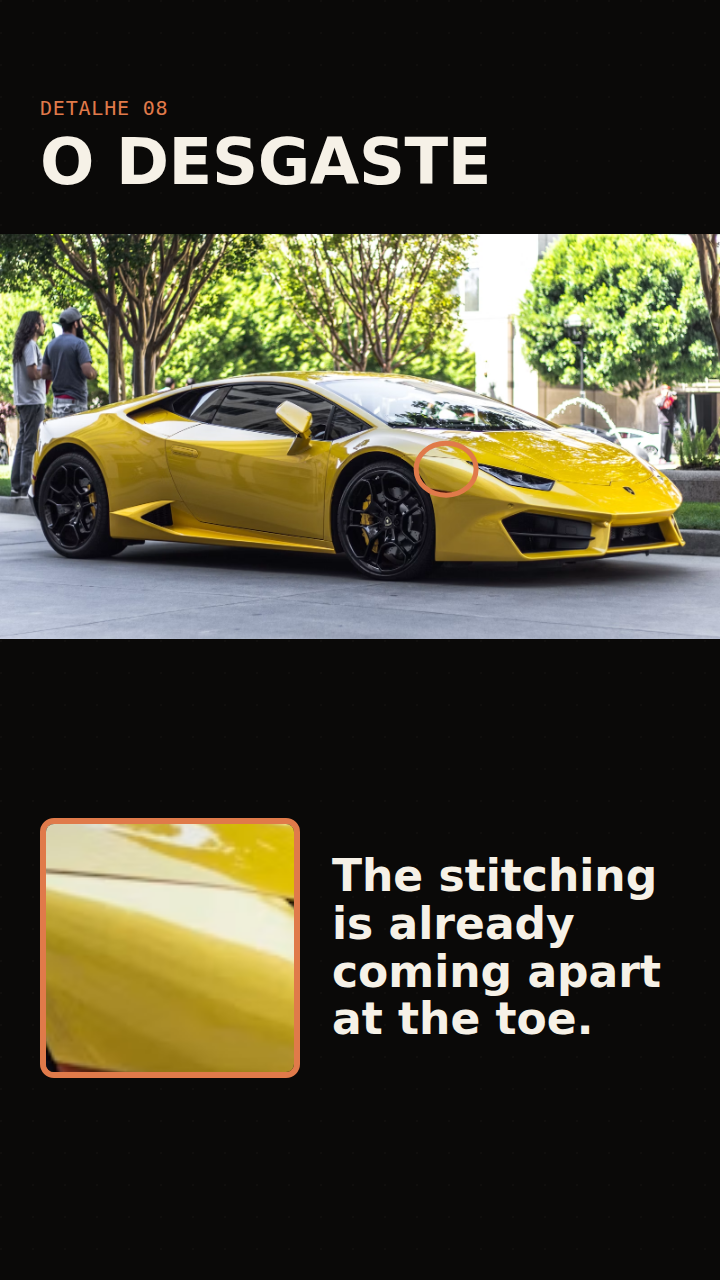
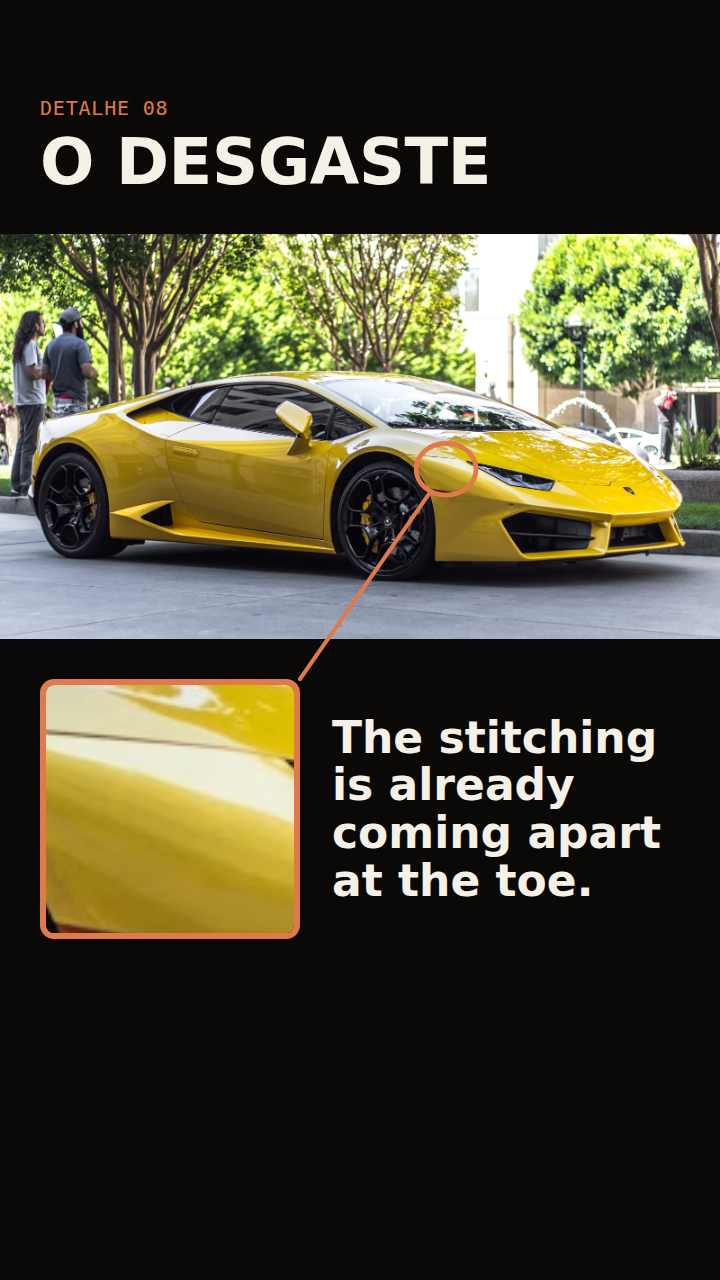
feat(detail-zoom): draw the ring, the link line and the card as animatable parts (#106)
* feat(detail-zoom): draw the ring, the link line and the card as animatable parts

The slide was one still: ring, card and caption all there at t=0, and no line
between the ring and the card it explains. Authors baked the whole thing into
a JPEG instead, which left nothing in the Studio to select or style.

The ring, a new link line, the card, the caption and the title are now
steps-reveal targets (indexes 0-4). The ring is drawn around, the line runs
from the ring to the card's corner (masked inside the ring), the card grows out
of that corner and the caption slides in. Every fallback is the final state, so
a slide without animation only gains the line.

* feat(detail-zoom): mark the title as a slide-long beat

* fix(detail-zoom): draw the line only with a focus point, mask it only with a ring size

Review: an empty focusX/focusY left an invalid SVG length that reads as 0, so the
line ran from the photo's corner; an empty focusW/focusH read as 100% and the
CSS fallback for the hole never applied (Blink takes the attribute). The mask id
now carries all four values, and the lone caption centres again.

diff --git a/templates/detail-zoom/portrait.css b/templates/detail-zoom/portrait.css
@@ -111,12 +111,81 @@
   box-sizing: border-box;
 }
 
+/* Scene, link line and foot share one box so the line can be placed from the
+ * scene's own corner, whatever height the head above them takes. */
+.tpl-root.tpl-detail-zoom.tpl-detail-zoom--portrait .tpl-detail-zoom__body {
+  display: flex;
+  flex-direction: column;
+  gap: 40px;
+  flex: 1 1 auto;
+  min-height: 0;
+}
+
+/* `flex: none` and not `1 1 auto`: the link line ends on the card's top-right
+ * corner, a fixed point under the scene. A foot that stretched would centre the
+ * card in whatever room was left and pull that corner away from the line. */
 .tpl-root.tpl-detail-zoom.tpl-detail-zoom--portrait .tpl-detail-zoom__foot {
   display: flex;
   align-items: center;
   gap: 32px;
-  flex: 1 1 auto;
+  flex: none;
   min-height: 0;
+}
+
+/* No card, no line to land on: the lone caption takes the room back and centres in it. */
+.tpl-root.tpl-detail-zoom.tpl-detail-zoom--portrait .tpl-detail-zoom__foot:has(> .tpl-detail-zoom__caption:only-child) {
+  flex: 1 1 auto;
+}
+
+/* The line from the ring to the card. The SVG is the scene box exactly, so the
+ * focus percentages mean here what they mean on the ring; it overflows on
+ * purpose to reach the card underneath. The mask cuts the stretch inside the
+ * ring, so the line starts ON the ring and not at its centre. The HTML draws
+ * the line only with a focus point, and masks it only with a ring size: an empty
+ * slot leaves an invalid SVG length behind, which reads as 0 (a line from the
+ * photo's corner) or as 100% (a hole the size of the photo). The mask id carries
+ * all four values, so two slides sharing a document share a mask only when it
+ * is the same mask. */
+.tpl-root.tpl-detail-zoom.tpl-detail-zoom--portrait .tpl-detail-zoom__link {
+  position: absolute;
+  left: -40px;
+  top: 0;
+  width: 720px;
+  height: 405px;
+  overflow: visible;
+  pointer-events: none;
+  z-index: 2;
+}
+
+.tpl-root.tpl-detail-zoom.tpl-detail-zoom--portrait .tpl-detail-zoom__linkline {
+  stroke: var(--s-brand-solid, #e07a4a);
+  stroke-width: 4;
+  stroke-linecap: round;
+  stroke-dasharray: 1;
+  stroke-dashoffset: calc(1 - var(--anim-progress, 1));
+}
+
+/* Animation (steps-reveal, indexes 0 ring · 1 line · 2 card · 3 caption ·
+ * 4 title, whose `data-anim-span="slide"` asks the Studio for one beat as long
+ * as the slide instead of a quick reveal). The Studio runtime writes --anim-progress / --anim-opacity for a
+ * given t; every fallback is the final state, so a slide without animation is
+ * unchanged. The ring mask reads only the ALPHA of its colour. The ring is DRAWN around, clockwise from the top; the card grows
+ * out of the corner the line lands on. The title never hides — it only exposes
+ * its progress, which the Studio's gradient text effect sweeps along. */
+.tpl-root.tpl-detail-zoom.tpl-detail-zoom--portrait .tpl-detail-zoom__ring {
+  -webkit-mask-image: conic-gradient(var(--s-brand-solid, #e07a4a) calc(var(--anim-progress, 1) * 360deg), transparent 0);
+  mask-image: conic-gradient(var(--s-brand-solid, #e07a4a) calc(var(--anim-progress, 1) * 360deg), transparent 0);
+}
+
+.tpl-root.tpl-detail-zoom.tpl-detail-zoom--portrait .tpl-detail-zoom__lens {
+  opacity: var(--anim-opacity, 1);
+  transform: scale(calc(0.35 + 0.65 * var(--anim-progress, 1)));
+  transform-origin: 100% 0;
+}
+
+.tpl-root.tpl-detail-zoom.tpl-detail-zoom--portrait .tpl-detail-zoom__caption {
+  opacity: var(--anim-opacity, 1);
+  transform: translateX(calc((1 - var(--anim-progress, 1)) * 24px));
 }
 
 .tpl-root.tpl-detail-zoom.tpl-detail-zoom--portrait .tpl-detail-zoom__lens {

diff --git a/templates/detail-zoom/landscape.css b/templates/detail-zoom/landscape.css
@@ -111,12 +111,81 @@
   box-sizing: border-box;
 }
 
+/* Scene, link line and foot share one box so the line can be placed from the
+ * scene's own corner, whatever height the head above them takes. */
+.tpl-root.tpl-detail-zoom .tpl-detail-zoom__body {
+  display: flex;
+  flex-direction: column;
+  gap: 24px;
+  flex: 1 1 auto;
+  min-height: 0;
+}
+
+/* `flex: none` and not `1 1 auto`: the link line ends on the card's top-right
+ * corner, a fixed point under the scene. A foot that stretched would centre the
+ * card in whatever room was left and pull that corner away from the line. */
 .tpl-root.tpl-detail-zoom .tpl-detail-zoom__foot {
   display: flex;
   align-items: center;
   gap: 40px;
-  flex: 1 1 auto;
+  flex: none;
   min-height: 0;
+}
+
+/* No card, no line to land on: the lone caption takes the room back and centres in it. */
+.tpl-root.tpl-detail-zoom .tpl-detail-zoom__foot:has(> .tpl-detail-zoom__caption:only-child) {
+  flex: 1 1 auto;
+}
+
+/* The line from the ring to the card. The SVG is the scene box exactly, so the
+ * focus percentages mean here what they mean on the ring; it overflows on
+ * purpose to reach the card underneath. The mask cuts the stretch inside the
+ * ring, so the line starts ON the ring and not at its centre. The HTML draws
+ * the line only with a focus point, and masks it only with a ring size: an empty
+ * slot leaves an invalid SVG length behind, which reads as 0 (a line from the
+ * photo's corner) or as 100% (a hole the size of the photo). The mask id carries
+ * all four values, so two slides sharing a document share a mask only when it
+ * is the same mask. */
+.tpl-root.tpl-detail-zoom .tpl-detail-zoom__link {
+  position: absolute;
+  left: -64px;
+  top: 0;
+  width: 1280px;
+  height: 300px;
+  overflow: visible;
+  pointer-events: none;
+  z-index: 2;
+}
+
+.tpl-root.tpl-detail-zoom .tpl-detail-zoom__linkline {
+  stroke: var(--s-brand-solid, #e07a4a);
+  stroke-width: 3;
+  stroke-linecap: round;
+  stroke-dasharray: 1;
+  stroke-dashoffset: calc(1 - var(--anim-progress, 1));
+}
+
+/* Animation (steps-reveal, indexes 0 ring · 1 line · 2 card · 3 caption ·
+ * 4 title, whose `data-anim-span="slide"` asks the Studio for one beat as long
+ * as the slide instead of a quick reveal). The Studio runtime writes --anim-progress / --anim-opacity for a
+ * given t; every fallback is the final state, so a slide without animation is
+ * unchanged. The ring mask reads only the ALPHA of its colour. The ring is DRAWN around, clockwise from the top; the card grows
+ * out of the corner the line lands on. The title never hides — it only exposes
+ * its progress, which the Studio's gradient text effect sweeps along. */
+.tpl-root.tpl-detail-zoom .tpl-detail-zoom__ring {
+  -webkit-mask-image: conic-gradient(var(--s-brand-solid, #e07a4a) calc(var(--anim-progress, 1) * 360deg), transparent 0);
+  mask-image: conic-gradient(var(--s-brand-solid, #e07a4a) calc(var(--anim-progress, 1) * 360deg), transparent 0);
+}
+
+.tpl-root.tpl-detail-zoom .tpl-detail-zoom__lens {
+  opacity: var(--anim-opacity, 1);
+  transform: scale(calc(0.35 + 0.65 * var(--anim-progress, 1)));
+  transform-origin: 100% 0;
+}
+
+.tpl-root.tpl-detail-zoom .tpl-detail-zoom__caption {
+  opacity: var(--anim-opacity, 1);
+  transform: translateX(calc((1 - var(--anim-progress, 1)) * 24px));
 }
 
 .tpl-root.tpl-detail-zoom .tpl-detail-zoom__lens {

diff --git a/templates/detail-zoom/portrait.html b/templates/detail-zoom/portrait.html
@@ -1,20 +1,31 @@
 <div class="tpl-root tpl-detail-zoom tpl-detail-zoom--portrait">
   <header class="tpl-detail-zoom__head">
     {{#eyebrow}}<span class="tpl-detail-zoom__eyebrow">{{eyebrow}}</span>{{/eyebrow}}
-    {{#title}}<h2 class="tpl-detail-zoom__title">{{title}}</h2>{{/title}}
+    {{#title}}<h2 class="tpl-detail-zoom__title" data-anim-target="step" data-anim-index="4" data-anim-span="slide">{{title}}</h2>{{/title}}
   </header>
+  <div class="tpl-detail-zoom__body">
   <div class="tpl-detail-zoom__scene">
     <img src="{{imageUrl}}" alt="{{imageAlt}}" class="tpl-detail-zoom__photo" crossorigin="anonymous" />
-    {{#zoom}}<span class="tpl-detail-zoom__ring" style="left: {{focusX}}%; top: {{focusY}}%; width: {{focusW}}%; height: {{focusH}}%"></span>{{/zoom}}
+    {{#zoom}}<span class="tpl-detail-zoom__ring" data-anim-target="step" data-anim-index="0" style="left: {{focusX}}%; top: {{focusY}}%; width: {{focusW}}%; height: {{focusH}}%"></span>{{/zoom}}
   </div>
+  {{#zoom}}{{#focusX}}{{#focusY}}
+  <svg class="tpl-detail-zoom__link" data-anim-target="step" data-anim-index="1" aria-hidden="true">
+    {{#focusW}}{{#focusH}}<mask id="tpl-detail-zoom-hole-{{focusX}}-{{focusY}}-{{focusW}}-{{focusH}}" maskUnits="userSpaceOnUse" x="-100%" y="-100%" width="300%" height="300%">
+      <rect x="-100%" y="-100%" width="300%" height="300%" fill="#fff" />
+      <svg class="tpl-detail-zoom__hole" x="{{focusX}}%" y="{{focusY}}%" width="{{focusW}}%" height="{{focusH}}%" overflow="visible"><ellipse cx="0" cy="0" rx="50%" ry="50%" fill="#000" /></svg>
+    </mask>{{/focusH}}{{/focusW}}
+    <line class="tpl-detail-zoom__linkline" x1="{{focusX}}%" y1="{{focusY}}%" x2="300" y2="445" pathLength="1"{{#focusW}}{{#focusH}} mask="url(#tpl-detail-zoom-hole-{{focusX}}-{{focusY}}-{{focusW}}-{{focusH}})"{{/focusH}}{{/focusW}} />
+  </svg>
+  {{/focusY}}{{/focusX}}{{/zoom}}
   <div class="tpl-detail-zoom__foot">
     {{#zoom}}
-    <div class="tpl-detail-zoom__lens">
+    <div class="tpl-detail-zoom__lens" data-anim-target="step" data-anim-index="2">
       <div class="tpl-detail-zoom__lensframe" style="transform-origin: {{focusX}}% {{focusY}}%; transform: translate(-{{focusX}}%, -{{focusY}}%) scale({{zoom}})">
         <img src="{{imageUrl}}" alt="" class="tpl-detail-zoom__photo" crossorigin="anonymous" />
       </div>
     </div>
     {{/zoom}}
-    <p class="tpl-detail-zoom__caption">{{caption}}</p>
+    <p class="tpl-detail-zoom__caption" data-anim-target="step" data-anim-index="3">{{caption}}</p>
+  </div>
   </div>
 </div>

diff --git a/templates/detail-zoom/landscape.html b/templates/detail-zoom/landscape.html
@@ -1,20 +1,31 @@
 <div class="tpl-root tpl-detail-zoom">
   <header class="tpl-detail-zoom__head">
     {{#eyebrow}}<span class="tpl-detail-zoom__eyebrow">{{eyebrow}}</span>{{/eyebrow}}
-    {{#title}}<h2 class="tpl-detail-zoom__title">{{title}}</h2>{{/title}}
+    {{#title}}<h2 class="tpl-detail-zoom__title" data-anim-target="step" data-anim-index="4" data-anim-span="slide">{{title}}</h2>{{/title}}
   </header>
+  <div class="tpl-detail-zoom__body">
   <div class="tpl-detail-zoom__scene">
     <img src="{{imageUrl}}" alt="{{imageAlt}}" class="tpl-detail-zoom__photo" crossorigin="anonymous" />
-    {{#zoom}}<span class="tpl-detail-zoom__ring" style="left: {{focusX}}%; top: {{focusY}}%; width: {{focusW}}%; height: {{focusH}}%"></span>{{/zoom}}
+    {{#zoom}}<span class="tpl-detail-zoom__ring" data-anim-target="step" data-anim-index="0" style="left: {{focusX}}%; top: {{focusY}}%; width: {{focusW}}%; height: {{focusH}}%"></span>{{/zoom}}
   </div>
+  {{#zoom}}{{#focusX}}{{#focusY}}
+  <svg class="tpl-detail-zoom__link" data-anim-target="step" data-anim-index="1" aria-hidden="true">
+    {{#focusW}}{{#focusH}}<mask id="tpl-detail-zoom-hole-{{focusX}}-{{focusY}}-{{focusW}}-{{focusH}}" maskUnits="userSpaceOnUse" x="-100%" y="-100%" width="300%" height="300%">
+      <rect x="-100%" y="-100%" width="300%" height="300%" fill="#fff" />
+      <svg class="tpl-detail-zoom__hole" x="{{focusX}}%" y="{{focusY}}%" width="{{focusW}}%" height="{{focusH}}%" overflow="visible"><ellipse cx="0" cy="0" rx="50%" ry="50%" fill="#000" /></svg>
+    </mask>{{/focusH}}{{/focusW}}
+    <line class="tpl-detail-zoom__linkline" x1="{{focusX}}%" y1="{{focusY}}%" x2="244" y2="324" pathLength="1"{{#focusW}}{{#focusH}} mask="url(#tpl-detail-zoom-hole-{{focusX}}-{{focusY}}-{{focusW}}-{{focusH}})"{{/focusH}}{{/focusW}} />
+  </svg>
+  {{/focusY}}{{/focusX}}{{/zoom}}
   <div class="tpl-detail-zoom__foot">
     {{#zoom}}
-    <div class="tpl-detail-zoom__lens">
+    <div class="tpl-detail-zoom__lens" data-anim-target="step" data-anim-index="2">
       <div class="tpl-detail-zoom__lensframe" style="transform-origin: {{focusX}}% {{focusY}}%; transform: translate(-{{focusX}}%, -{{focusY}}%) scale({{zoom}})">
         <img src="{{imageUrl}}" alt="" class="tpl-detail-zoom__photo" crossorigin="anonymous" />
       </div>
     </div>
     {{/zoom}}
-    <p class="tpl-detail-zoom__caption">{{caption}}</p>
+    <p class="tpl-detail-zoom__caption" data-anim-target="step" data-anim-index="3">{{caption}}</p>
+  </div>
   </div>
 </div>
